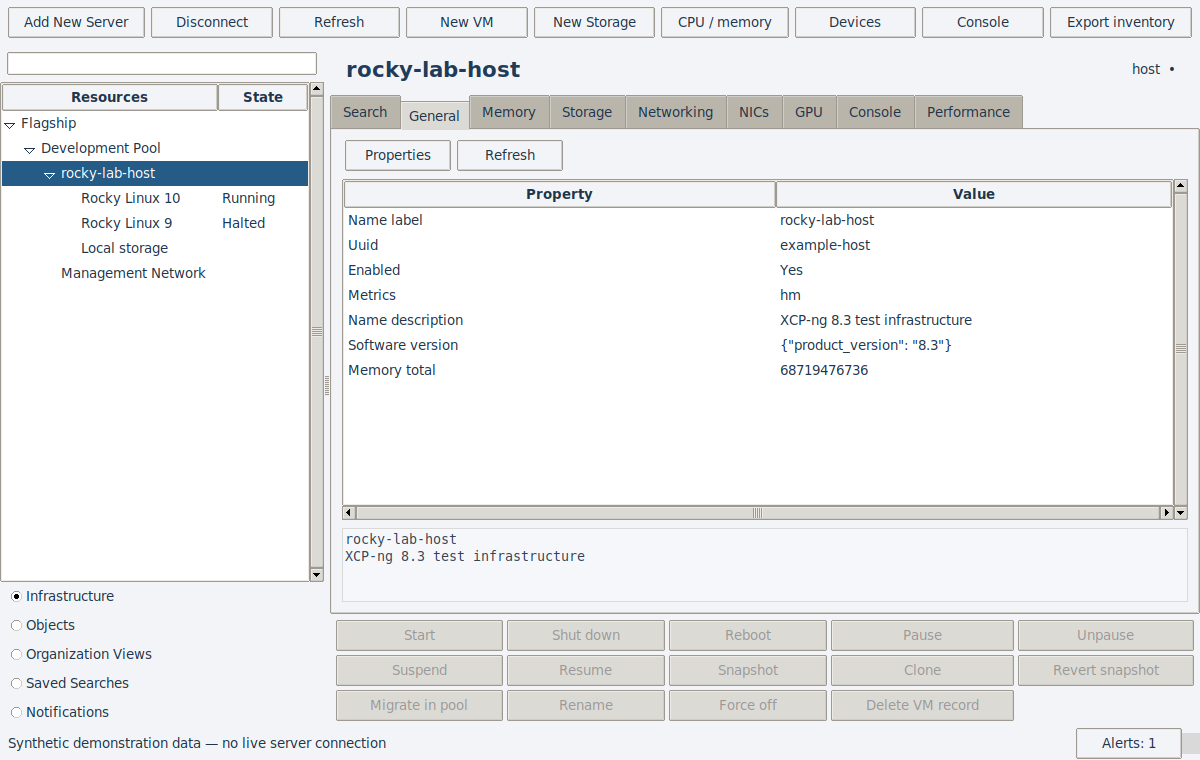
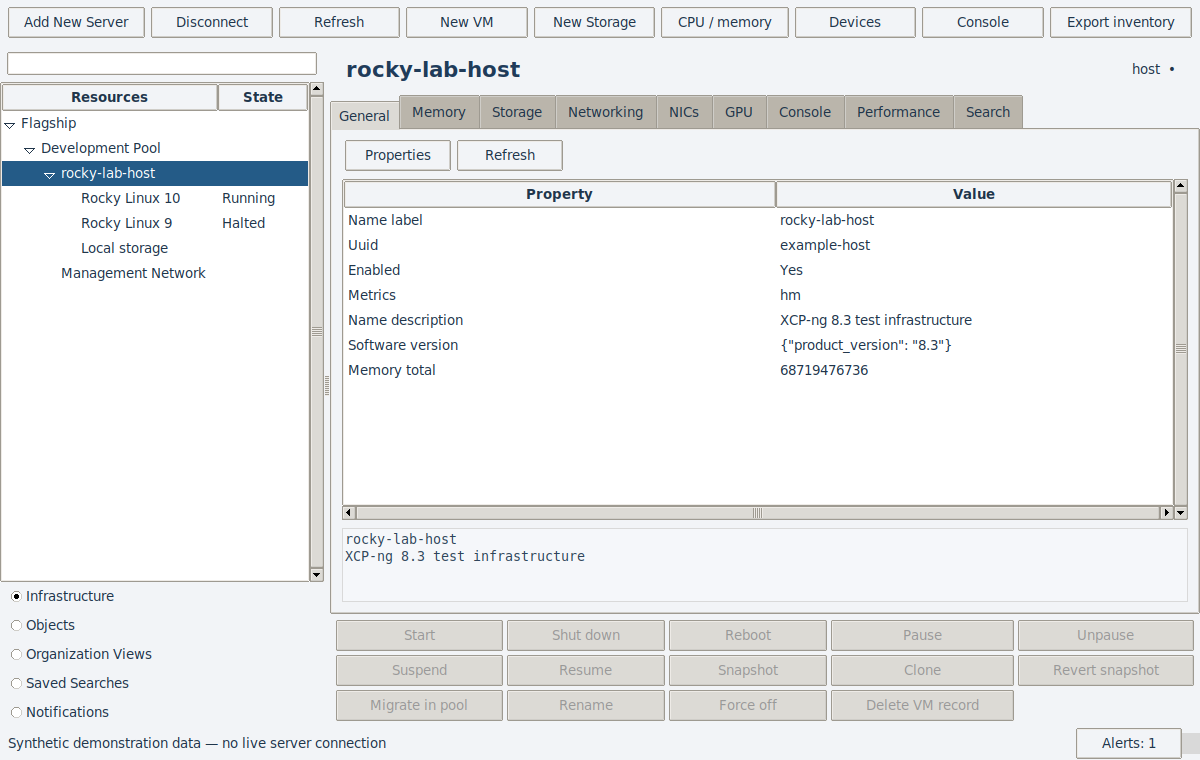
Verify Center navigation ordering and record native regression suite

Changed region(s): [[0.2775, 0.1211, 0.8325, 0.1816]]

diff --git a/flagship/center.py b/flagship/center.py
@@ -221,6 +221,7 @@ class CenterShell:
         for title,frame in self.frames.items():
             if title in visible: self.tabs.add(frame,text=title)
             elif str(frame) in self.tabs.tabs(): self.tabs.hide(frame)
+        for index,title in enumerate(visible): self.tabs.insert(index,self.frames[title])
         self.tabs.select(current if current in [str(self.frames[t]) for t in visible] else self.frames[visible[0]])
         for title,view in self.views.items():
             kind,data=related(self.records,cls,ref,title); text=''

diff --git a/docs/INSTALL.md b/docs/INSTALL.md
@@ -10,7 +10,7 @@ access; it is not installed or needed at runtime. A desktop environment itself i
 GNOME/KDE or turn a minimal server into a workstation.
 
 For a previously published XenAdmin Rocky candidate, use its attached documentation and original
-archive names. The current source build targets Flagship 1.1.0.dev2, which is a development candidate, not a stable release.
+archive names. The current source build targets Flagship 1.2.0.dev1, which is a development candidate, not a stable release.
 
 ## Transfer and install
 
@@ -20,11 +20,11 @@ against a separately trusted manifest. Checksums shipped beside files detect
 corruption, not a malicious replacement of both files and manifest.
 
 Use the exact archive filename for the release you transferred. This example
-uses the current Flagship 1.1.0.dev2 build. Extract in a staging directory, review PACKAGES.tsv
+uses the current Flagship 1.2.0.dev1 build. Extract in a staging directory, review PACKAGES.tsv
 and run:
 
 ```sh
-tar -xzf flagship-airgap-el9-x86_64-1.1.0.dev2.tar.gz
+tar -xzf flagship-airgap-el9-x86_64-1.2.0.dev1.tar.gz
 cd airgap
 sha256sum -c SHA256SUMS
 sudo ./install-offline.sh
@@ -84,5 +84,5 @@ are not needed to run the installed application.
 
 Application upgrades/removal preserve private operation journals under the user
 state directory. Retain them for recovery; see RECOVERY.md before exporting or
-manually retiring them. 1.1.0.dev2 runtime packaging is under verification; use a
+manually retiring them. 1.2.0.dev1 runtime packaging is under verification; use a
 published candidate and its matching attached instructions for installation.

diff --git a/docs/BUILD.md b/docs/BUILD.md
@@ -39,7 +39,7 @@ SRPMs using `./scripts/collect-dependency-sources.sh 9` and the equivalent for 1
 Source archives can be large (the Rocky 10 Noto font SRPM alone is about 1 GB);
 retain them with the binary bundles for offline source access.
 
-Build output is isolated by application version (currently 1.1.0.dev2) so a new
+Build output is isolated by application version (currently 1.2.0.dev1) so a new
 candidate does not overwrite published dev.1 artifacts. CI uploads the complete
 versioned dist tree for its Rocky matrix job.
 
